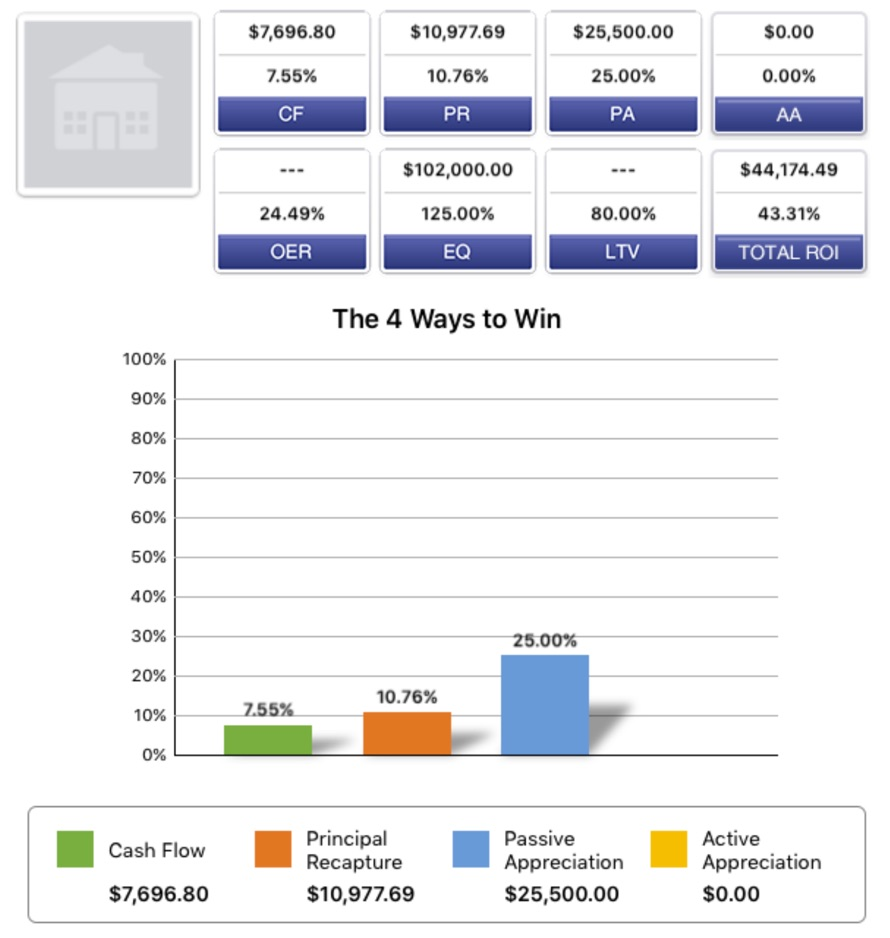
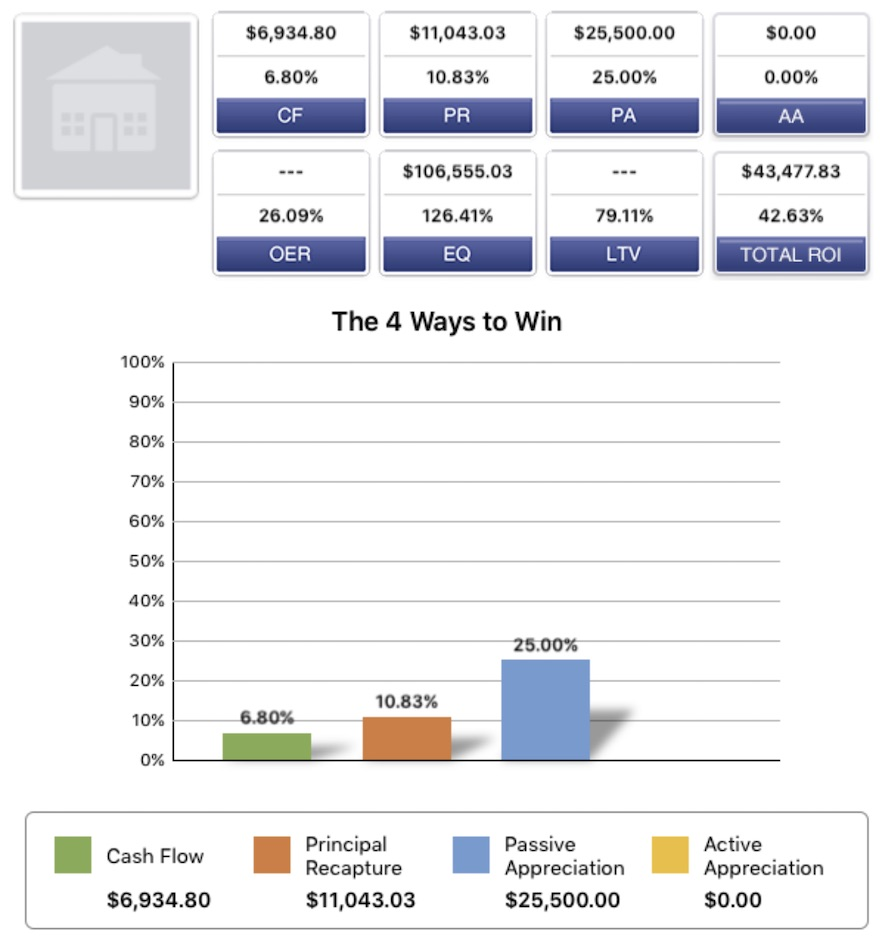
adds second welland property and updates the first welland property numbers

diff --git a/_includes/about.html b/_includes/about.html
@@ -90,7 +90,21 @@
                                     <h4 class="subheading">Duplex in Welland, Ontario</h4>
                                 </div>
                                 <div class="timeline-body">
-                                    <p class="text-muted">After joining Keyspire in late 2020, we sped up our Real Estate portfolio growth. During a hot sellers market in Ontario, we built a great team, analyzed more than 100 properties and made 8 offers. We found one with a healthy positive cashflow and an estimated 37%+ Return on Investment.</p>
+                                    <p class="text-muted">After joining Keyspire in late 2020, we sped up our Real Estate portfolio growth. During a hot seller's market in Ontario, we built a great team, analyzed more than 100 properties and made 8 offers. We found one with a healthy positive cashflow and an estimated 43% Return on Investment.</p>
+                                </div>
+                            </div>
+                        </li>
+                        <li>
+                            <div class="timeline-image">
+                                <img class="img-circle img-responsive" src="img/about/4.jpg" alt="">
+                            </div>
+                            <div class="timeline-panel">
+                                <div class="timeline-heading">
+                                    <h4>June, 2021</h4>
+                                    <h4 class="subheading">Second Duplex in Welland, Ontario</h4>
+                                </div>
+                                <div class="timeline-body">
+                                    <p class="text-muted">In the middle of a hot seller's market, we acquired a second property in Welland. After a renovation to convert it to a duplex, and finding great tenants, the property yielded 9.9% cashflow and a 43% Return on Investment.</p>
                                 </div>
                             </div>
                         </li>
